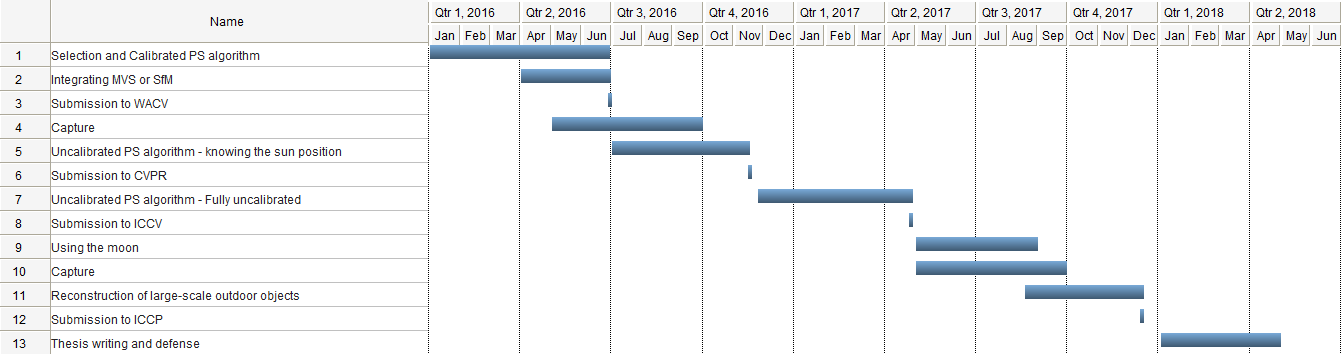
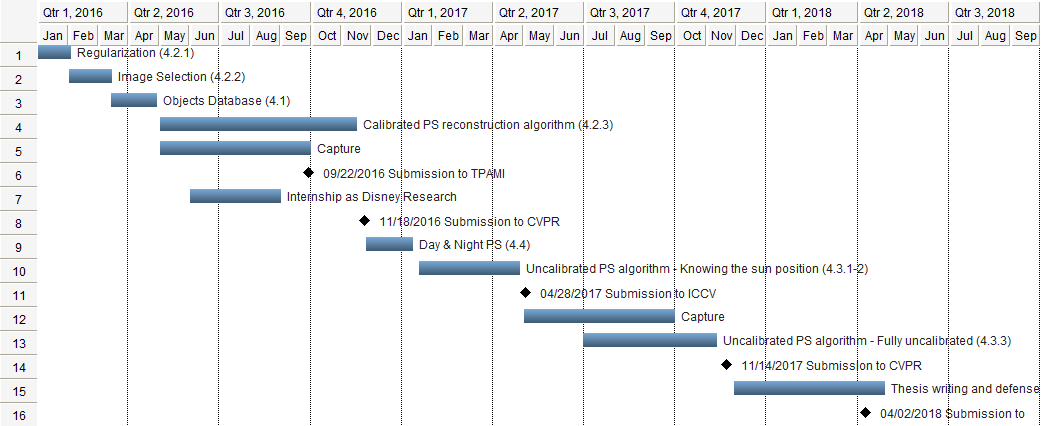
Updated schedule

diff --git a/proposed.tex b/proposed.tex
@@ -12,6 +12,7 @@ Then, using this database, I propose to modify existing PS algorithms to work fo
 
 
 \section{Database of objects}
+\label{sec:dbobj}
 
 As explained in \ref{sec:hdrdb}, we've built a publicly available database of unsaturated HDR sky captures. This database filled a need for a publicly available unsaturated HDR natural illumination conditions, enabling physically-based renderings and sky analysis. There is now a need for a complementary dataset: images of objects usually lit by the sky. Objects such as statues, architectural monuments and buildings. This database would allow researchers to analyze the shading of surfaces in conjunction with their illumination conditions. The goal is to obtain and share pictures of objects synchronized with the sky captures. These images will give a direct link between the aspect of a sky and the appearance of objects lit by it, effectively tying natural illumination with its shading.
 
@@ -207,6 +208,7 @@ This new formulation is still untested. As such, my plan is to incorporate it in
 
 
 \subsection{Selecting the right images to better constrain the problem}
+\label{subsec:selection}
 % Discrepancy between simulation and real world captures. Investigate it. We witness: selecting some images of the sequence may improve or degrade dramatically reconstruction performance.
 
 %First, simulations on cloudy and semi-cloudy lighting conditions reflected correctly the real captured data. But when the sun was directly visible by a surface patch, a drift in the intensity values was observed compared to the theory. Pixels seeing direct bright sunlight were typically dimmer than what the Lambertian equation predicted, as can be seen in fig.~\ref{fig:sel-scaling_error}. This situation is corroborated by the real data. In itself, this minor setback won't hinder the forecast work. It seems to suppose that our real objects does not exhibit perfectly Lambertian reflectances, which is not quite surprising, and is something that the physically-based renderer LuxRender also picks up. The important thing to keep in mind from this is that images lit by direct sunshine will impact negatively the performance of the PS algorithm.
@@ -219,7 +221,9 @@ This new formulation is still untested. As such, my plan is to incorporate it in
 %\end{figure}
 While working on the previous contributions, we witnessed a curious behavior in the reconstruction performance. Sometimes, by adding images, the reconstruction uncertainty was increased, leading to worse results. At first, it may seem counter-intuitive: why would adding more (non-outlier) data be harmful to the algorithm? This curious behavior can however be deducted from the stability of the PS mathematical formulation. As shown in sec.~\ref{iccp15:ifm}, reconstruction uncertainty depends on three things: the sensor noise, the surface albedo and the stability of the lighting matrix.
 
-Over different images of the same Lambertian object taken with the same photo camera, the sensor noise and the surface albedo does not change. The stability of the lighting matrix $\bar{\mathbf{L}}$---the sequence of MLVs seen for a given surface---will change, though. This means that the uncertainty will also change, since it is based on the singular values of the $\bar{\mathbf{L}}$ matrix. Adding repetitive or coplanar data to this matrix will increase the difference between the maximum and the minimum singular value. \todo{explain this}. This has the effect of degrading the conditioning of the matrix, meaning that the stability will be impacted negatively. It translates in an increase of the uncertainty of the overall PS reconstruction. Conceptually, this means that the reconstruction algorithm will have a stability bias toward the direction most present in $\bar{\mathbf{L}}$.
+Over different images of the same Lambertian object taken with the same photo camera, the sensor noise and the surface albedo does not change. The stability of the lighting matrix $\bar{\mathbf{L}}$---the sequence of MLVs seen for a given surface---will change, though. This means that the uncertainty will also change, since it is based on the singular values of the $\bar{\mathbf{L}}$ matrix. Adding repetitive or coplanar data to this matrix will increase the difference between the maximum and the minimum singular value. This relationship can be deduced by the Gramian matrix of $\bar{\mathbf{L}}$, chiefly $\mathbf{G} = \bar{\mathbf{L}}^T\bar{\mathbf{L}}$. This Gramian matrix is now square, but its singular values are the squared singular values as the original matrix, $\sqrt{\sigma_i(\mathbf{G})} = \sigma_i(\bar{\mathbf{L}})$. By computing this Gramian matrix, the repeated vector multiplied (or projected) multiples times the other vectors, thus having an higher importance in the Gramian matrix, We could say that the Gramian matrix was steered toward this vector. As such, an higher component 
+
+This has the effect of degrading the conditioning of the matrix, as $\kappa(\bar{\mathbf{L}}) = \frac{\sigma_{\max}(\bar{\mathbf{L}}) }{ \sigma_{\min}(\bar{\mathbf{L}}) }$, meaning that the stability will be impacted negatively. It translates in an increase of the uncertainty of the overall PS reconstruction. Conceptually, this means that the reconstruction algorithm will have a stability bias toward the direction most present in $\bar{\mathbf{L}}$.
 
 Both of these issues touch a very important concept: which images among the whole dataset are important. Not all data is equal, in that repetitive data is actually harmful for the algorithm. Then, which input images should be kept? Which combination is optimal?
 
@@ -254,6 +258,7 @@ This vector importance issue can be fixed by scaling the data by an arbitrary fa
 
 
 \subsection{Algorithmic improvements: initialization refinement and merging with other techniques}
+\label{subsec:calibrated}
 
 % MRF, reference Jung's, tell our differences.
 When performing a calibrated PS algorithm on environment maps, a chicken-and-egg problem arise. The part of the environment map visible by a surface patch is defined by its normal, but the normal is what we want to find using the lighting information. To solve this problem, we can sample normals uniformly over the sphere and compute their MLVs (see sec.~\ref{iccp-computingstability}. Then, we can find how well a pixel intensity in the image matches these MLVs.
@@ -315,6 +320,7 @@ In the following, I propose a succession of steps in order to take the calibrate
 
 
 \subsection{Using only the sun position}
+\label{subsec:knowingsunposition}
 
 \todo{reorganise: 1) Knowing the sun posibition w.r.t. camera. 2) knowing sun position in the sky, but not the camera orientation.}
 % Then, estimation of the sky using the GPS coordinates and date & time. Then, without date and time.
@@ -332,6 +338,7 @@ As an intermediate step, it is possible to remove knowledge of the camera orient
 
 
 \subsection{Fully uncalibrated}
+\label{subsec:fullyuncalibrated}
 % Lastly fully uncalibrated
 The last step is to provide a fully uncalibrated PS algorithm. Building on the previously proposed technique, it is possible to remove the GPS coordinates and the date from the technique. It is expected that at least some captures over the sequence will be sunlit, yielding a high overall image intensity and giving a clear principal light direction using the maximum light direction scheme explained earlier. It is thus possible to find the sun arc in the sky, enabling self-calibration. By fitting these principal light directions to environment maps available in the database, it will be possible not only to obtain the scene structure but to estimate the lighting that made the photo.
 
@@ -339,6 +346,7 @@ This proposed technique will be a major contribution that iterates over the prev
 
 
 \section{Night and Day Photometric Stereo}
+\label{sec:nightandday}
 
 % Up until now, we only considered the atmosphere during the day for reconstruction. The main problem, coplanar.
 All the previous proposed work only considered daytime lighting conditions. The main problem, which is the coplanarity of the sun trajectory over the course of a day, can be solved by richer and more complex sky models as explained in the previous sections. Another interesting avenue is to revert to a simpler model: the point light source, which yields an underconstrained problem as explained in sec.~\ref{sec:ps_ori}.

diff --git a/main.tex b/main.tex
@@ -93,18 +93,36 @@ $\circ$                             & $=$ & Elementwise (Hadamard) product \\
 
 %The problems will be explored in increasing order of complexity according to the following schedule. First, the hardware required to gather the sky illumination database will be setup on a tall roof nearby, and the data acquisition process will be continued over a period of several months to build a rich dataset. Second, experiments with existing PS techniques to reconstruct shape with known illumination will be conducted. Leaning on these experiments, the algorithms will then be adapted to require knowledge only of the sun direction, obtained from the capture timestamps. Finally we will experiment with images where the lighting conditions are unknown.
 
-The proposed schedule is presented in the Gantt chart in fig.~\ref{fig:schedule-gantt}. This per-session estimate plans the realization of all the proposed work before 2018, and I plan to defend my thesis by the end of the winter session of 2018.
+
+The proposed schedule is presented in the Gantt chart in fig.~\ref{fig:schedule-gantt}. This per-session estimate plans the realization of all the proposed contributions before 2018, and I plan to defend my thesis by the end of the winter session of 2018.
 
 \begin{figure}
 \centering
 \includegraphics[width=\linewidth]{schedule.png}
-\caption{Schedule of the planned contributions.}
+\caption{Gantt chart of the planned contributions.}
 \label{fig:schedule-gantt}
 \end{figure}
 
-The two first conference paper planned are the calibrated and uncalibrated algorithms, each respectively are to be submitted at WACV on June 25th, 2016, and ICCV on April 22th, 2016. Then, a paper using the moon in conjunction with the sun is planned at ICCP on December 9th 2017. Pertinent conferences for all three papers include WACV, ICCP, 3DV and CVPR.
+% ECCV March 14th 2016 (aux deux ans)
+% WACV June 25th
+% ICCV April 22th
+% CVPR November 9th
 
-A journal paper extending the analysis performed in the previous contributions over more datasets is planned to be submitted at the end of 2016. At the beginning of 2018, wrapping and extending the calibrated and uncalibrated planned contributions to new datasets is forecast. The IEEE Transactions on Pattern Analysis and Machine Intelligence (TPAMI) and the Machine Vision and Applications (MVA) journals are the targets for those contributions.
+First, working on the regularization (sec.~\ref{subsec:reg}), image selection (sec.~\ref{subsec:selection}) and the object database (sec.~\ref{sec:dbobj}) during the winter will allow me to prepare all the experimental setup before capturing the data during the summer. Then, a submission to the TPAMI journal is forecast at the end of the summer of 2016, extending the work done in sec.~\ref{iccp15} and sec.~\ref{3dv15} with more data and with insights about both enhancements.
+
+From the end of spring 2016 through fall 2016, I plan working on the calibrated PS reconstruction algorithm (sec.~\ref{subsec:calibrated}), also integrating the previous work. This work is intertwined with an internship at Disney Research during the summer, and the data capture. I plan to submit a conference paper about this PS algorithm at CVPR on November 14th 2016.
+
+As data have been gathered throughout the summer, realizing the day and night PS project (sec.~\ref{sec:nightandday}) is a logical continuation. This day and night submission is forecast for ICCV on April 22th.
+
+The last and main contribution of this work is the uncalibrated PS algorithm, planned to be realized from winter 2017 to until November. The work is split in two, first by supposing the sun position is known (sec.~\ref{subsec:knowingsunposition}) for the first half, and then the fully uncalibrated version (sec.~\ref{subsec:fullyuncalibrated}), ready for CVPR submission on November 14th 2017.
+
+After these contributions, I plan the writing of my thesis in order to defend at the end of the winter session of 2018. Meanwhile, a submission regrouping the reconstruction algorithms on enhanced dataset is planned during this time at TPAMI.
+
+Pertinent conferences for all the papers include WACV, 3DV, ICCP, ICCV and CVPR. The IEEE Transactions on Pattern Analysis and Machine Intelligence (TPAMI) and the International Journal of Computer Vision (IJCV) journals are the targets for the journal contributions.
+
+Capture sessions were planned during the summer, as it is the most suitable moment for outdoors image capture in Quebec. Late fall and winter temperature at Laval University is outside the operating specifications of our cameras, making full day or night captures mostly impossible. During these summers, I plan on having interns helping me performing the capture, mostly handling the apparatus. Work included in the capture task include HDR merging and image alignment.
+
+Most deadline dates given are tentative, as conferences haven't disclosed their dates yet.
 
 
 %%%%%%%%%%%%%%%%%%%%%%%%%%%%%%%%%%%%%%%%%%%%%%%%%%%%%%%%%%%%%%%%%%%%%%%%%%%%%%%%
@@ -113,7 +131,7 @@ A journal paper extending the analysis performed in the previous contributions o
 % Clear that the community has an interest
 From the generally positive reviews and comments we received for our previous work, it seems clear to me that the community is interested in outdoors PS. Continuing the work already begun toward the proposed contributions will bring a new level of understanding of the impact of natural illumination on PS. This will enable the development of practical outdoor PS algorithms, extending the capabilities of cheap and common cameras to 3D scanning.
 
-The need in 3D scanning is greatly increasing these last few years. This is especially true for outdoor objects, where architectural monuments are needed for use in video games, preservation of cultural heritage, special effects in the movie industry and many more. Bringing PS to the outdoor light will empower the masses to perform this world digitization. As such, I firmly believe that the proposed contributions will have a remarkable impact on 3D shape scanning altogether.
+The need for 3D scanning has greatly increased these last few years. This is especially true for outdoor objects, where architectural monuments are needed for use in video games, preservation of cultural heritage, special effects in the movie industry and many more applications. Bringing PS outdoors will empower the masses to perform this world digitization. As such, I firmly believe that the proposed contributions will have a remarkable impact on 3D shape scanning altogether.
 
 
 %\chapter*{Acknowledgments}

diff --git a/sota.tex b/sota.tex
@@ -96,11 +96,11 @@ The first method that was proposed to make outdoor PS work is to capture several
 \end{figure}
 
 % Explain Ackermann
-A quick overview of the full PS pipeline of~\cite{ackermann-cvpr-12} is now presented. They propose a PS reconstruction algorithm working on webcam timelapses. Their algorithm is divided in three major steps:
+A quick overview of the full PS pipeline of~\cite{ackermann-cvpr-12} is now presented. They propose a PS reconstruction algorithm working on webcam timelapses. Their algorithm is divided in three major steps: 
 \begin{enumerate}
-  \item Selection;
-  \item Calibration;
-  \item PS iterative optimization.
+  \item Selection: \todo{explain};
+  \item Calibration: \todo{explain};
+  \item PS iterative optimization: \todo{explain}.
 \end{enumerate}% Selection
 First, a selection is made from all the images of the sequence spanning many months. In their analysis, they considered intervals of 6 months or more of data, amounting to a large quantity of images. The selection work is twofold, as they must detect and remove the outliers amongst the images, and then select the best images among the remaining ones. First, they remove images having more than 10\% of their pixels in highlights and mostly dark images, taking care of the outliers. They found that input images with low contrast were harmful for their PS algorithm. As such, to select the best images, they define a contrast measure using the gradient of the object and the portion of the sky visible in the image separately. When strong gradients are found on the object, this means that a strong directional light illuminates the scene, giving a typically interesting input image. They also measure some characteristics of the sky, such as its color, to infer the lighting quality of the image. They suppose that if the visible sky in the image is mostly blue, there is a high risk of the sun shining directly on the object to be reconstructed. These images are good, because a strong directional lighting is what makes PS work. They then blend these two measures together for each image, allowing them to select the best to perform PS on.
 
@@ -140,7 +140,7 @@ Recently, Shen~{\em et al.}~\cite{shen-pg-14} showed that, contrary to common be
 % richer lighting models
 To compensate for limited sun motion, a promising approach is to use richer models of illumination that account for additional atmospheric factors in the sky. Typically, more elaborate models of illumination is done by employing (hemi-)spherical high dynamic range (HDR) environment maps~\cite{debevec-siggraph-98,reinhard-book-05} as input to outdoor PS. Encouraging results have been reported in~\cite{yu-iccp-13} for outdoor images taken within an interval of just eight hours (in a single day). Full environment maps can be captured alongside the object captures and used with calibrated PS algorithms~\cite{yu-iccp-13,shi-3dv-14,hung-wacv-15}.
 
-%\todo{explain differences of shi \& hung.}
+\todo{Add Yu.}
 
 It is also possible to estimate part of the environment map without explicitly capturing it, by synthesizing a hemispherical model of the sky using physically-based models~\cite{inose-tcva-13,jung-cvpr-15}.
 

diff --git a/introduction.tex b/introduction.tex
@@ -11,7 +11,7 @@ This thesis proposes to do so simply by using cameras, and an existing reconstru
 \label{sec:ps_ori}
 
 The first definition of PS, made in 1979 by Woodham~\cite{Woodham1979}, made a lot of assumptions to simplify the problem to its essence, such as these ones:
-
+\todo{inline}
 \begin{itemize} \setlength\itemsep{-0.2em}
   \item The object surface reflectance must be
   \vspace{-0.65em}\begin{itemize} \setlength\itemsep{0.1em}
